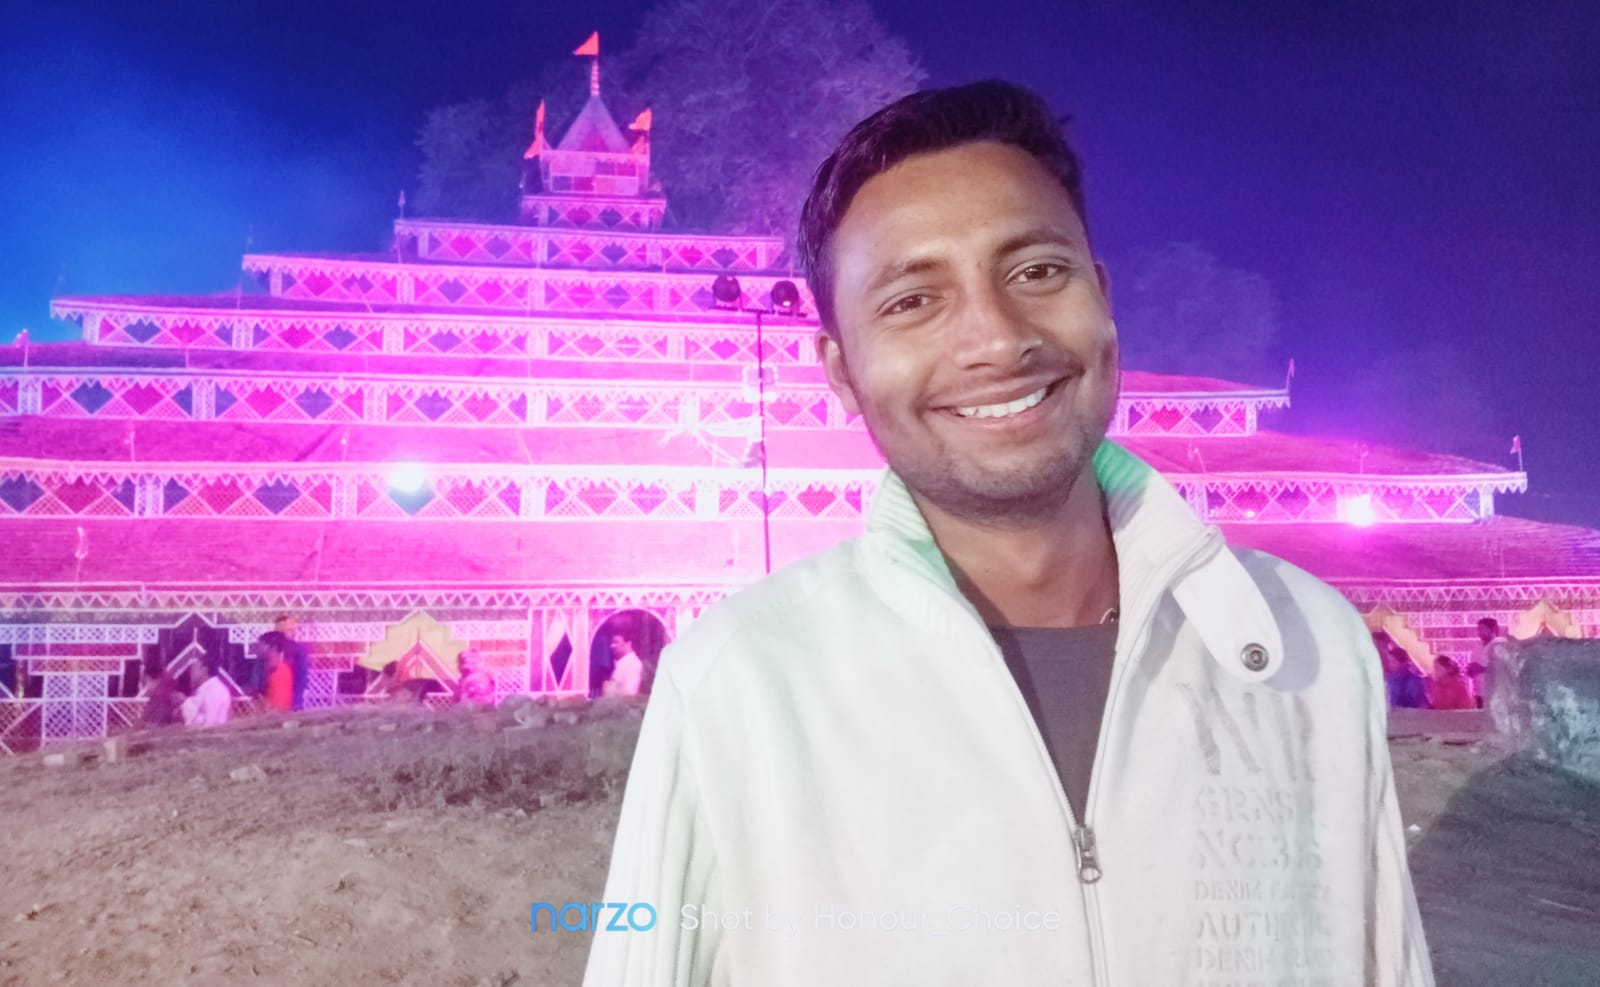
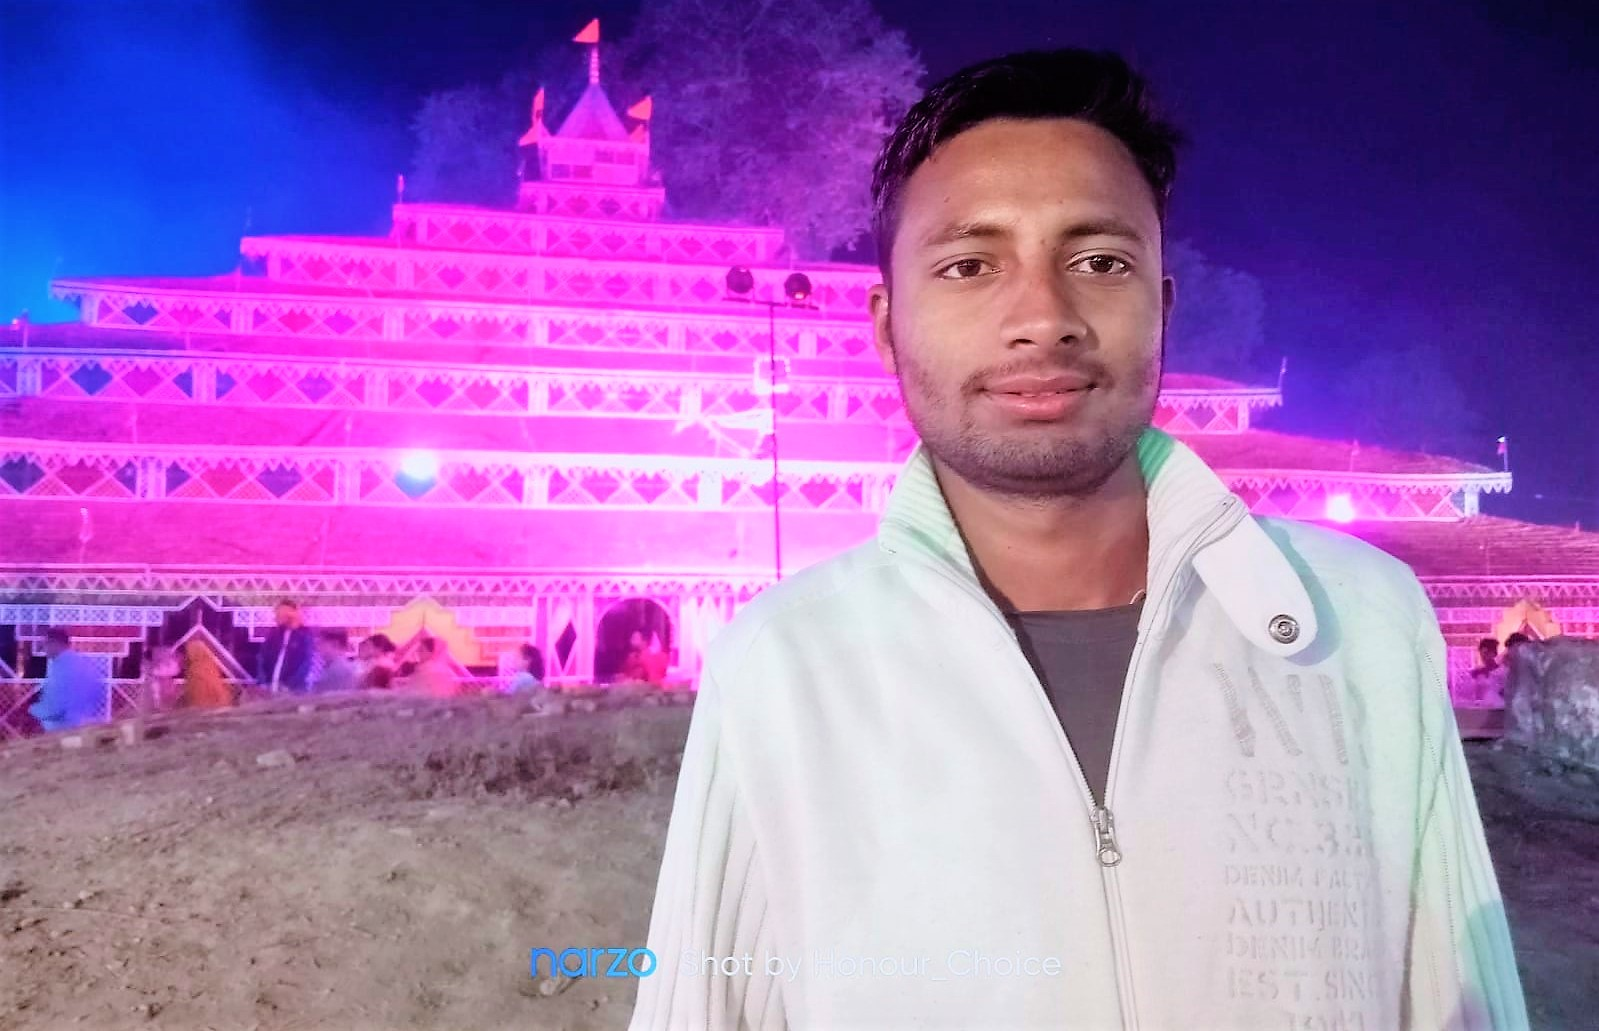
new vesion

diff --git a/index.html b/index.html
@@ -48,7 +48,7 @@
       <div class="d-flex flex-column">
         <div class="profile">
           <img
-            src="assets/img/std.jpg"
+            src="assets/img/img13.jpg"
             alt=""
             class="img-fluid rounded-circle"
           />
@@ -98,11 +98,6 @@
               >
             </li>
             <li>
-              <a href="#payment" class="nav-link scrollto"
-                ><i class="bx bxl-paypal"></i> <span>Payment</span></a
-              >
-            </li>
-            <li>
               <a href="#contact" class="nav-link scrollto"
                 ><i class="bx bx-envelope"></i> <span>Contact</span></a
               >
@@ -148,10 +143,10 @@
 
           <div class="row">
             <div class="col-lg-4" data-aos="fade-right">
-              <img src="assets/img/IMG_best.jpg" class="img-fluid" alt="" />
+              <img src="assets/img/picc.jpeg" class="img-fluid" alt="" />
             </div>
             <div class="col-lg-8 pt-4 pt-lg-0 content" data-aos="fade-left">
-              <h3>Software Developer &amp; Web Developer.</h3>
+              <h3>Software, Web Developer &amp; Android Developer</h3>
               <p class="fst-italic">
                 I am telling about myself and I have shared my education and
                 experience. These details are clear.
@@ -165,7 +160,7 @@
                     </li>
                     <li>
                       <i class="bi bi-chevron-right"></i>
-                      <strong>Website:</strong> <span>www.example.com</span>
+                      <strong>Website:</strong> <span>www.gauravchaurasiya.in.net</span>
                     </li>
                     <li>
                       <i class="bi bi-chevron-right"></i>
@@ -235,7 +230,7 @@
                 <i class="bi bi-emoji-smile"></i>
                 <span
                   data-purecounter-start="0"
-                  data-purecounter-end="156"
+                  data-purecounter-end="20"
                   data-purecounter-duration="1"
                   class="purecounter"
                 ></span>
@@ -252,7 +247,7 @@
                 <i class="bi bi-journal-richtext"></i>
                 <span
                   data-purecounter-start="0"
-                  data-purecounter-end="22"
+                  data-purecounter-end="7"
                   data-purecounter-duration="1"
                   class="purecounter"
                 ></span>
@@ -269,7 +264,7 @@
                 <i class="bi bi-headset"></i>
                 <span
                   data-purecounter-start="0"
-                  data-purecounter-end="500"
+                  data-purecounter-end="15"
                   data-purecounter-duration="1"
                   class="purecounter"
                 ></span>
@@ -286,7 +281,7 @@
                 <i class="bi bi-people"></i>
                 <span
                   data-purecounter-start="0"
-                  data-purecounter-end="15"
+                  data-purecounter-end="1"
                   data-purecounter-duration="1"
                   class="purecounter"
                 ></span>
@@ -364,7 +359,7 @@
               </div>
 
               <div class="progress">
-                <span class="skill">Java Advance<i class="val">60%</i></span>
+                <span class="skill">Spring Boot<i class="val">60%</i></span>
                 <div class="progress-bar-wrap">
                   <div
                     class="progress-bar"
@@ -375,6 +370,19 @@
                   ></div>
                 </div>
               </div>
+              <div class="progress">
+                <span class="skill">Android App developer<i class="val">70%</i></span>
+                <div class="progress-bar-wrap">
+                  <div
+                    class="progress-bar"
+                    role="progressbar"
+                    aria-valuenow="75"
+                    aria-valuemin="0"
+                    aria-valuemax="100"
+                  ></div>
+                </div>
+              </div>
+
             </div>
 
             <div class="col-lg-6" data-aos="fade-up" data-aos-delay="100">
@@ -444,6 +452,18 @@
                   ></div>
                 </div>
               </div>
+              <div class="progress">
+                <span class="skill">Kotlin<i class="val">60%</i></span>
+                <div class="progress-bar-wrap">
+                  <div
+                    class="progress-bar"
+                    role="progressbar"
+                    aria-valuenow="75"
+                    aria-valuemin="0"
+                    aria-valuemax="100"
+                  ></div>
+                </div>
+              </div>
             </div>
           </div>
         </div>
@@ -488,7 +508,7 @@
               <div class="resume-item">
                 <h4>B.tech &amp; Bachelor of Technology</h4>
                 <h5>2022 - 2025</h5>
-                <p><em>A I T H , Uttar Pradesh, India</em></p>
+                <p><em>A I T , Uttar Pradesh, India</em></p>
                 <p>
                   I am doing B.Tech in computer science from AITH college. And I
                   also do web development.
@@ -552,54 +572,6 @@
         </div>
       </section>
       <!-- End Resume Section -->
-      <!-- start payment section -->
-      <section id="payment" class="payment">
-        <div class="container">
-          <div class="section-title">
-            <h2>Payment Us</h2>
-            <p>
-              We are accept all types payment. like as Google Pay, Phone Pay
-              etc.
-            </p>
-          </div>
-          <br />
-          <div class="row">
-            <div class="col-lg-6" data-aos="fade-left">
-              <img
-                src="assets/img/Phone pay.jpeg"
-                class="img-fluid"
-                alt="Phone Pay Accept Here"
-              />
-              <br />
-              <div class="text-center">
-                <a
-                  href="assets/img/Phone pay.jpeg"
-                  download
-                  class="download-btn"
-                  >Download</a
-                >
-              </div>
-            </div>
-            <div class="col-lg-6" data-aos="fade-right">
-              <img
-                src="assets/img/GOOgle pay.jpeg"
-                class="img-fluid"
-                alt="Google Pay Accept Here"
-              />
-              <br />
-              <div class="text-center">
-                <a
-                  href="assets/img/GOOgle pay.jpeg"
-                  download
-                  class="download-btn"
-                  >Download</a
-                >
-              </div>
-            </div>
-          </div>
-        </div>
-      </section>
-      <!-- end payment section -->
       <!-- ======= Contact Section ======= -->
       <section id="contact" class="contact">
         <div class="container">
